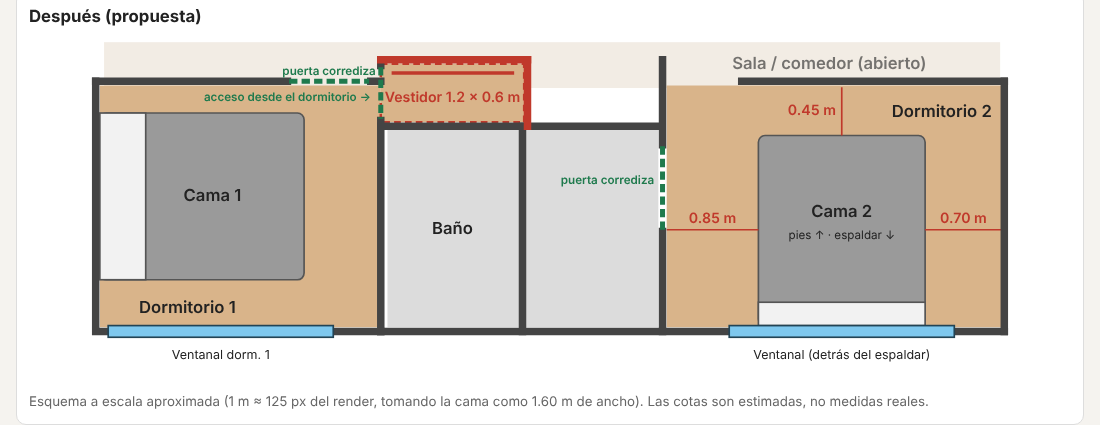
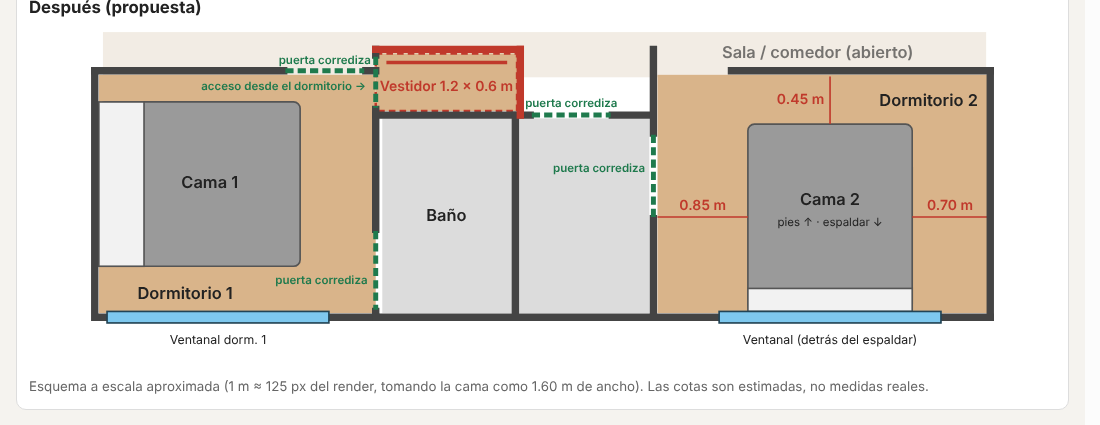
Agregar puertas corredizas dormitorio 1-baño y baño-sala
Claude-Session: https://claude.ai/code/session_01FjBeNf4WjH2KP9gBJAno4x

Changed region(s): [[0.0309, 0.0, 0.9273, 0.8565], [0.0309, 0.8871, 0.8655, 0.9788]]

diff --git a/index.html b/index.html
@@ -99,9 +99,11 @@
         <line x1="450" y1="412" x2="462" y2="412"/>
         <!-- pared dorm1 / baño: se conserva solo el tramo bajo el hueco del vestidor -->
         <line x1="462" y1="386" x2="462" y2="393"/>
-        <line x1="462" y1="459" x2="462" y2="712"/>
+        <line x1="462" y1="459" x2="462" y2="605"/>
+        <line x1="462" y1="705" x2="462" y2="712"/>
         <!-- muro superior del baño -->
-        <line x1="462" y1="466" x2="795" y2="466"/>
+        <line x1="462" y1="466" x2="650" y2="466"/>
+        <line x1="750" y1="466" x2="795" y2="466"/>
         <!-- divisor del baño -->
         <line x1="632" y1="466" x2="632" y2="712"/>
         <!-- pared baño / dormitorio 2 -->
@@ -130,6 +132,10 @@
       <!-- Puertas corredizas -->
       <line x1="352" y1="412" x2="448" y2="412" stroke="var(--ok)" stroke-width="6" stroke-dasharray="10 5"/>
       <text x="400" y="404" text-anchor="middle" font-size="14" font-weight="600" style="fill:var(--ok)">puerta corrediza</text>
+      <line x1="652" y1="466" x2="748" y2="466" stroke="var(--ok)" stroke-width="6" stroke-dasharray="10 5"/>
+      <text x="700" y="456" text-anchor="middle" font-size="14" font-weight="600" style="fill:var(--ok)">puerta corrediza</text>
+      <line x1="462" y1="607" x2="462" y2="703" stroke="var(--ok)" stroke-width="6" stroke-dasharray="10 5"/>
+      <text x="452" y="672" text-anchor="end" font-size="14" font-weight="600" style="fill:var(--ok)">puerta corrediza</text>
       <line x1="800" y1="490" x2="800" y2="590" stroke="var(--ok)" stroke-width="6" stroke-dasharray="10 5"/>
       <text x="790" y="535" text-anchor="end" font-size="14" font-weight="600" style="fill:var(--ok)">puerta corrediza</text>
     </svg>
@@ -144,7 +150,7 @@
       <li><b>Dormitorio 1:</b> el hueco sobre el baño pasa a ser un vestidor de <span class="tag">~1.2 × 0.6 m</span> (profundidad estándar de armario), cerrado hacia la sala con muro nuevo. Solo se abre <span class="tag">un hueco de ~0.5 m</span> en la pared del dormitorio para dar acceso; el resto de esa pared se conserva.</li>
       <li><b>Límite del acceso:</b> el hueco solo puede medir lo que mide la profundidad del vestidor (~0.5–0.6 m), por debajo de una puerta normal (0.7–0.8 m). Sirve como armario con puertas corredizas o cortina, pero no para entrar caminando. Para entrar hay que hacerlo más profundo o ampliar el hueco, lo que implica quitar más pared.</li>
       <li><b>Por confirmar:</b> si esa pared es estructural, revisarla con un ingeniero antes de abrir el hueco.</li>
-      <li><b>Puertas corredizas (0.8 m):</b> una en la pared superior del dormitorio 1, hacia la sala, y otra entre el baño y el dormitorio 2. La del dormitorio 2 da al pasillo libre de ~0.85 m junto a la cama, y las corredizas no necesitan espacio de apertura.</li>
+      <li><b>Puertas corredizas (0.8 m), cuatro en total:</b> dormitorio 1 → sala (pared superior), dormitorio 1 → baño (pared lateral, cerca de la ventana), baño → sala (pared superior del baño) y baño → dormitorio 2. La del dormitorio 2 da al pasillo libre de ~0.85 m junto a la cama. Las corredizas no necesitan espacio de apertura, pero necesitan ~0.8 m de pared libre a un lado para correr.</li>
     </ul>
   </section>
 </main>
